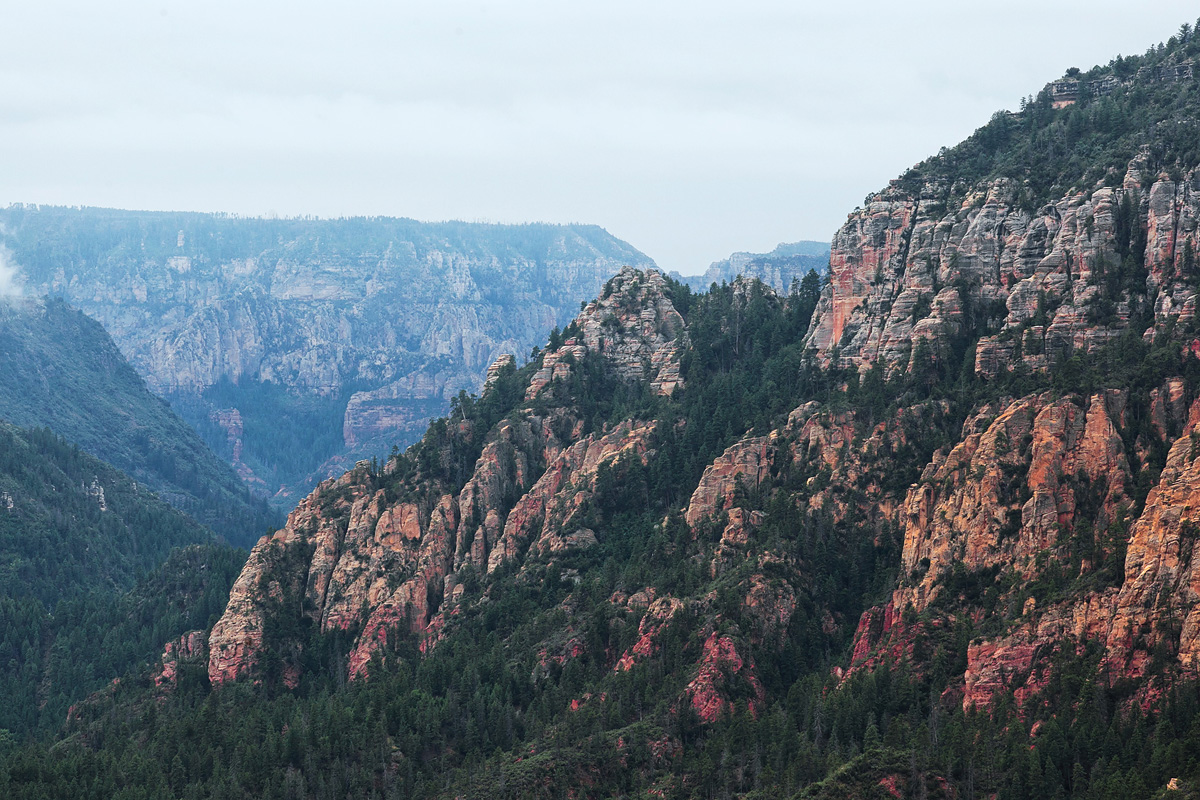
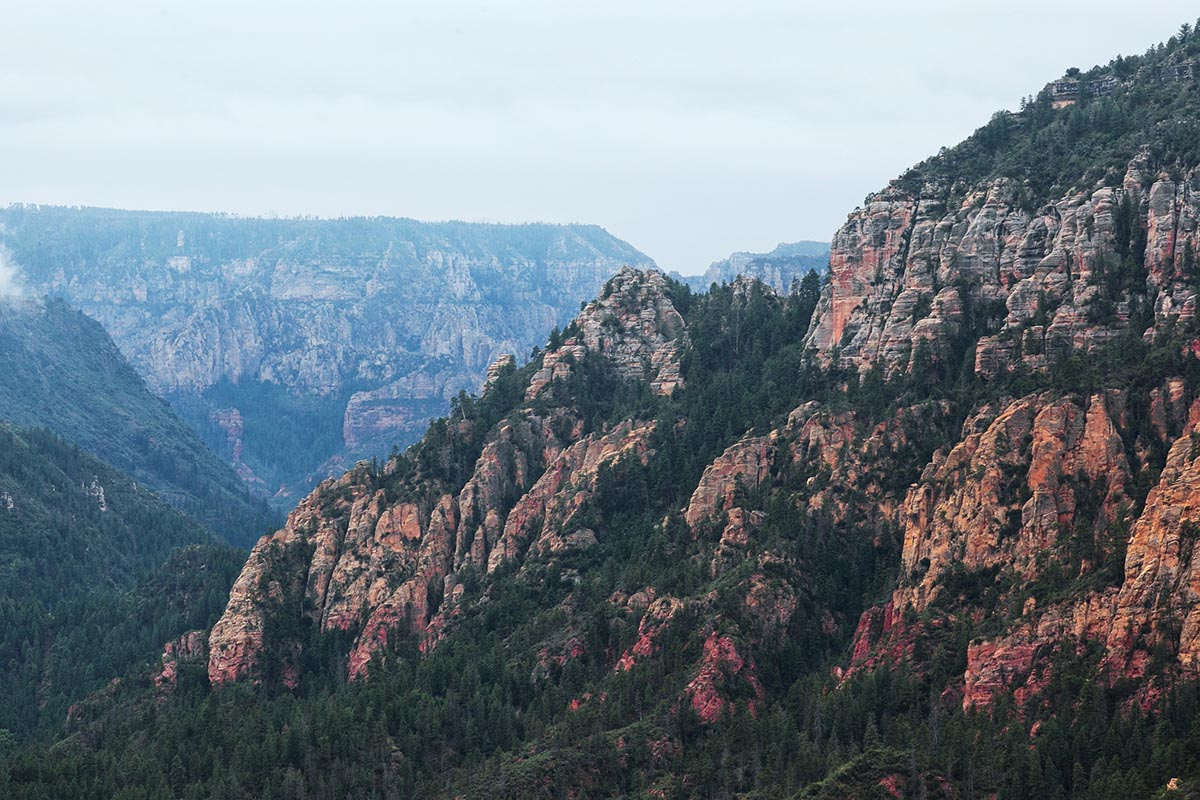
graphics optimized

Changed region(s): [[0.9867, 0.625, 1.0, 0.6562], [0.9558, 0.5938, 0.9867, 0.625], [0.8325, 0.5, 0.8633, 0.5312]]

diff --git a/index.html b/index.html
@@ -6,6 +6,7 @@
 
   <link rel="stylesheet" href="https://fonts.googleapis.com/css?family=PT+Sans:400,700&subset=cyrillic,latin">
   <link rel="stylesheet" href="css/style.css">
+  <link rel="shortcut icon" type="image/x-icon" href="img/favicon.ico" />
   <title>Седона</title>
 </head>
 <body>
@@ -29,7 +30,14 @@
           </li>
           <li class="main-nav__logo">
             <a href="#">
-              <img src="img/logo-sedona@1x.png" width="67" alt="sedona logo">
+              <picture>
+                <source
+                  srcset="img/logo-sedona@3x.png 3x,
+                          img/logo-sedona@2x.png 2x,
+                          img/logo-sedona@1x.png 1x"
+                >
+                <img src="img/logo-sedona@1x.png" width="67" alt="sedona logo">
+              </picture>
             </a>
           </li>
         </ul>
@@ -60,7 +68,13 @@
         </section>
         <div class="reason-container__photo-wrapper">
           <div class="reason-container__photo">
-            <img src="img/village.jpg" alt="village" width="320" height="256">
+            <picture>
+              <source
+                srcset="img/photo-city@2x.jpg 2x,
+                        img/photo-city@1x.jpg 1x"
+              >
+              <img src="img/photo-city@1x.jpg" width="320" alt="sedona city">
+            </picture>
           </div>
         </div>
       </div>
@@ -89,7 +103,13 @@
 
         <div class="reason-container__photo-wrapper">
           <div class="reason-container__photo reason-container__photo--left-25">
-            <img src="img/devil-bridge.jpg" alt="Devil's bridge" width="320" height="256">
+            <picture>
+              <source
+                srcset="img/photo-bridge@2x.jpg 2x,
+                        img/photo-bridge@1x.jpg 1x"
+              >
+              <img src="img/photo-bridge@1x.jpg" width="320" alt="Devil's bridge">
+            </picture>
           </div>
         </div>
       </div>

diff --git a/form.html b/form.html
@@ -6,6 +6,7 @@
 
   <link rel="stylesheet" href="https://fonts.googleapis.com/css?family=PT+Sans:400,700&subset=cyrillic,latin">
   <link rel="stylesheet" href="css/style.css">
+  <link rel="shortcut icon" type="image/x-icon" href="img/favicon.ico" />
   <title>Седона - Оставить отзыв</title>
 </head>
 <body>
@@ -28,8 +29,15 @@
             <a href="hotels.html">гостиницы</a>
           </li>
           <li class="main-nav__logo">
-            <a href="index.html">
-              <img src="img/logo-sedona@1x.png" width="67" alt="sedona logo">
+            <a href="#">
+              <picture>
+                <source
+                  srcset="img/logo-sedona@3x.png 3x,
+                          img/logo-sedona@2x.png 2x,
+                          img/logo-sedona@1x.png 1x"
+                >
+                <img src="img/logo-sedona@1x.png" width="67" alt="sedona logo">
+              </picture>
             </a>
           </li>
         </ul>

diff --git a/blog.html b/blog.html
@@ -6,6 +6,7 @@
 
   <link rel="stylesheet" href="https://fonts.googleapis.com/css?family=PT+Sans:400,700&subset=cyrillic,latin">
   <link rel="stylesheet" href="css/style.css">
+  <link rel="shortcut icon" type="image/x-icon" href="img/favicon.ico" />
   <title>Седона - Блог</title>
 </head>
 <body>
@@ -28,8 +29,15 @@
             <a href="hotels.html">гостиницы</a>
           </li>
           <li class="main-nav__logo">
-            <a href="index.html">
-              <img src="img/logo-sedona@1x.png" width="67" alt="sedona logo">
+            <a href="#">
+              <picture>
+                <source
+                  srcset="img/logo-sedona@3x.png 3x,
+                          img/logo-sedona@2x.png 2x,
+                          img/logo-sedona@1x.png 1x"
+                >
+                <img src="img/logo-sedona@1x.png" width="67" alt="sedona logo">
+              </picture>
             </a>
           </li>
         </ul>

diff --git a/post.html b/post.html
@@ -6,6 +6,7 @@
 
   <link rel="stylesheet" href="https://fonts.googleapis.com/css?family=PT+Sans:400,700&subset=cyrillic,latin">
   <link rel="stylesheet" href="css/style.css">
+  <link rel="shortcut icon" type="image/x-icon" href="img/favicon.ico" />
   <title>Седона - Пост</title>
 </head>
 <body>
@@ -28,8 +29,15 @@
             <a href="hotels.html">гостиницы</a>
           </li>
           <li class="main-nav__logo">
-            <a href="index.html">
-              <img src="img/logo-sedona@1x.png" width="67" alt="sedona logo">
+            <a href="#">
+              <picture>
+                <source
+                  srcset="img/logo-sedona@3x.png 3x,
+                          img/logo-sedona@2x.png 2x,
+                          img/logo-sedona@1x.png 1x"
+                >
+                <img src="img/logo-sedona@1x.png" width="67" alt="sedona logo">
+              </picture>
             </a>
           </li>
         </ul>

diff --git a/less/mixins.less b/less/mixins.less
@@ -28,7 +28,7 @@
 .poster-bkg(@x, @y, @bg-size-triangle, @bg-size, @padding-top, @padding-bottom) {
   background:
     url("../img/intro-triangle.svg") 50% 100% no-repeat,
-    url("../img/sedona-poster.jpg") @x @y no-repeat,
+    url("../img/photo-background@1x.jpg") @x @y no-repeat,
     @bg-color-blue--light;
   background-size:
     @bg-size-triangle,
@@ -36,6 +36,18 @@
     auto;
   padding-top: @padding-top;
   padding-bottom: @padding-bottom;
+
+  @media (min-resolution: 144dpi),
+  (min-resolution: 1.5dppx) {
+    background:
+      url("../img/intro-triangle.svg") 50% 100% no-repeat,
+      url("../img/photo-background@2x.jpg") @x @y no-repeat,
+      @bg-color-blue--light;
+    background-size:
+      @bg-size-triangle,
+      @bg-size,
+      auto;
+  }
 }
 
 .centralize-absolute-el() {
